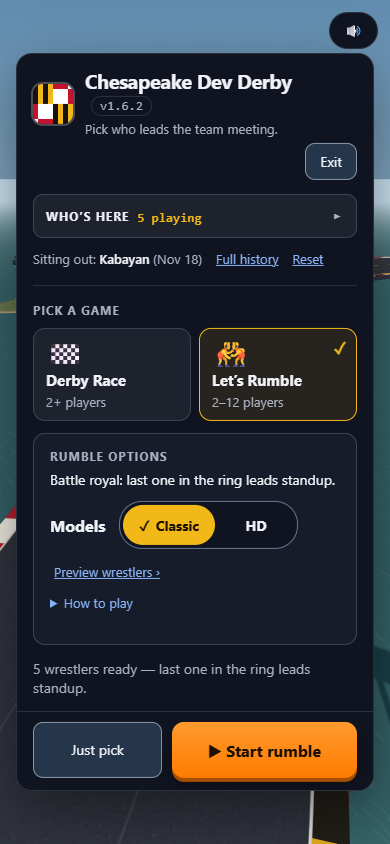
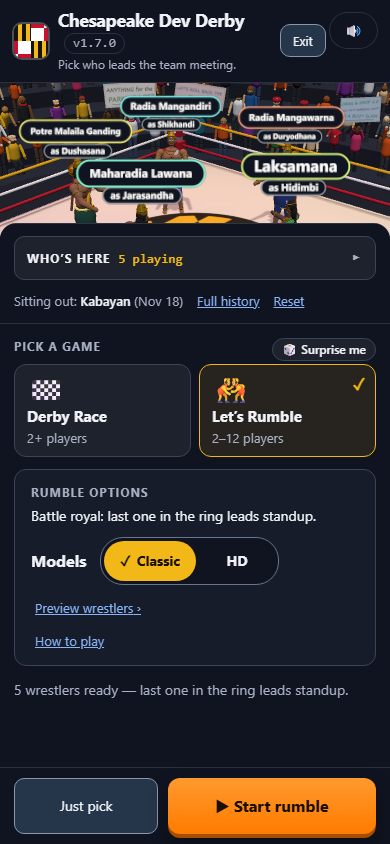
Lobby 2.0: Pocket Broadcast mobile framing, README screenshots & docs (#123 phase 4)

diff --git a/public/js/wrestle-stage.js b/public/js/wrestle-stage.js
@@ -263,10 +263,13 @@ export class WrestleStage {
       this.t += dt;
       this.orbit += dt * 0.14;
     }
-    const radius = this.camera.aspect < 1 ? 18 : 15.5;
-    const height = this.camera.aspect < 1 ? 9.5 : 7.8;
+    const portrait = this.camera.aspect < 1;
+    const radius = portrait ? 18.5 : 15.5;
+    const height = portrait ? 10.5 : 7.8;
+    // On portrait phones, aim below the ring so the wrestlers and Maryland-flag mat sit in the top 3D window.
+    const targetY = portrait ? MAT_Y - 6.8 : MAT_Y + 0.6;
     this.camera.position.set(Math.sin(this.orbit) * radius, height, Math.cos(this.orbit) * radius);
-    this.camera.lookAt(0, MAT_Y + 0.6, 0);
+    this.camera.lookAt(0, targetY, 0);
 
     for (const w of this.wrestlers) {
       if (w.pop > 0) w.pop = Math.max(0, w.pop - dt * 3.5);

diff --git a/public/js/game.js b/public/js/game.js
@@ -892,9 +892,11 @@ export class Game {
     const gridHeight = 7.8 + Math.min(3, rows * 0.6);
 
     if (reduced || this.stageTime < holdSeconds) {
+      const portrait = this.camera.aspect < 1;
       const sway = reduced ? 0 : Math.sin(this.stageTime * 0.6) * 2.2;
-      const pos = this.track.point(6 - back, -1.6 + sway, gridHeight, this._a);
-      const look = this.track.point(18, -1.2, 1.6, this._b);
+      const pos = this.track.point(6 - back, -1.6 + sway, gridHeight + (portrait ? 2.5 : 0), this._a);
+      // On portrait phones, aim lower so the starting grid and <race> banner sit in the top 3D window.
+      const look = this.track.point(18, -1.2, portrait ? -7.5 : 1.6, this._b);
       this.setCamera(pos, look, dt, 2.5, 3);
       this.focus.copy(look);
       return;

diff --git a/public/css/style.css b/public/css/style.css
@@ -1378,10 +1378,10 @@ button.exit { padding: 7px 12px; font-size: 13px; }
   .live-pill { display: none; }
   .tagline { font-size: 12px; }
 }
-@media (max-width: 640px) and (min-height: 640px) {
-  /* Tall phones: show a live 3D Chesapeake Bay window above the docked sheet. */
+@media (max-width: 640px) and (min-height: 700px) {
+  /* Tall phones: show a live 3D stage window (Bridge grid or Wrestling ring) above the docked sheet. */
   .lobby-stage {
-    margin-top: 96px;
+    margin-top: 140px;
     border-top: 1px solid #2c3547;
     border-radius: 16px 16px 0 0;
   }

diff --git a/README.md b/README.md
@@ -58,14 +58,20 @@ To use a different port: `PORT=5000 npm start` (PowerShell: `$env:PORT=5000; npm
    A plain array (`["Ada", "Grace"]`) works too. Blank entries and duplicates are ignored, and anything
    past the 30th name is dropped (the lobby tells you when this happens). Reload the page after editing.
 
-2. **Open the lobby.** It asks three things in order: **Who's here**, **Pick a game**, and that game's
-   options. Then one button starts it. On a wide screen (1000 px and up) the team list is on the left and
-   the game on the right; on a narrower one they stack. On a phone the team list folds into a
-   **Who's here · 12 playing** row: tap it to open the list (it starts open when fewer than two people are
-   ready). Everyone is listed with a checkbox. A ticked box means that person is playing.
+2. **Open the lobby.** The lobby is an open-center **Live Broadcast Stage**:
+   - On a wide screen (1000 px and up), the live 3D stage fills the center of the screen — **Derby Race**
+     stages the checked-in teammates idling on the Standup Bay Bridge before gliding down the course, and
+     **Let’s Rumble** switches to the spotlighted wrestling ring where toggling **Classic | HD** swaps
+     the 3D models live. Solid HUD panels frame the edges: a **Top Broadcast Bar** (`LIVE`, **History**,
+     **Team**, **Exit**), a scrollable and collapsible **Left Lineup Drawer** (click `◂` or press **H**
+     for a full-bleed spectator view), a rotating pre-match **broadcast chyron**, and a **Bottom Command
+     Dock** (**Pick a game** + **🎲 Surprise me**, the selected game's options, and **Launch**).
+   - On a phone, taller screens show a live 3D stage window above a docked sheet, the team list folds
+     into a full-width **Who's here · 12 playing** row (open by default when fewer than two people are
+     ready), and **Just pick** and **Start** stay pinned at the bottom in one row.
 
-   <img src="docs/lobby-wide.png" alt="The lobby on a laptop: Who's here with the team list on the left; Pick a game with the Derby Race card selected and its Race length slider on the right; Just pick someone and Start race at the bottom." width="640">
-   <img src="docs/lobby-phone.png" alt="The lobby on a phone: the team list folded into a Who's here row, the Let's Rumble card selected with its Classic or HD toggle, and Just pick and Start rumble in one row at the bottom." width="200">
+   <img src="docs/lobby-wide.png" alt="The Live Broadcast Stage lobby on a laptop: Top Broadcast Bar, collapsible Left Lineup Drawer, open center showing 5 racers idling on the Standup Bay Bridge with the ON GRID chyron, and Bottom Command Dock with mode cards, Surprise me, Race length slider, and Start race." width="640">
+   <img src="docs/lobby-phone.png" alt="The Pocket Broadcast lobby on a phone: live 3D wrestling ring window at the top, folded Who's here row, Let's Rumble selected with Classic or HD toggle, and Just pick and Start rumble in one row at the bottom." width="200">
    - The list is in **alphabetical order**. A name that is an email address is shown without the
      `@` and domain (`tony.stark@ultron.com` shows as **tony.stark**), unless another entry would show
      the same way (`tony.stark@vision.com`, or a plain `Tony.Stark`); then the full address is kept.
@@ -77,22 +83,23 @@ To use a different port: `PORT=5000 npm start` (PowerShell: `$env:PORT=5000; npm
      options (race length, Classic or HD) are kept in this browser from one meeting to the next
      (`localStorage`); a browser that has never chosen starts on the race. An explicit `?speed=` or
      `?mode=` URL setting overrides the saved race length or game. A length saved by an older version of the slider moves to the nearest of
-     the five lengths. When anyone is unchecked, the count ("2 people marked absent.") appears at the end
-     of the hint line under **Who's here**.
+     the five lengths. When anyone is unchecked, the count ("2 people marked absent.") appears in the
+     Launch zone beside Start so toggling checkboxes never shifts the team list.
    - The **last three winners are not eligible**: they are shown greyed out with an unticked, locked
      checkbox ("Sits out 3 more picks"…), and named on the **Sitting out** line under the list, next to
      **Full history** and **Reset**.
 
-3. **Pick a game.** Click a card: **🏁 Derby Race** (2 or more players) or **🤼 Let’s Rumble** (2 to 12).
-   Choosing a card only selects it; nothing starts until you click Start. The selected game's options
-   appear underneath:
+3. **Pick a game.** Click a card — **🏁 Derby Race** (2 or more players) or **🤼 Let’s Rumble** (2 to 12)
+   — or click **🎲 Surprise me** to let the lobby pick an eligible game at random. Choosing a card only
+   selects it and switches the live 3D stage; nothing starts until you click Start. The selected game's
+   options appear beside the cards:
    - the race has a **Race length** slider: about 120, 60 (default), 30, 15 or 10 seconds of racing, not
      counting the short countdown;
    - Rumble has **Models: Classic | HD** and **Preview wrestlers** (see [Let’s Rumble](#lets-rumble)).
 
-   **How to play**, at the bottom of the options, explains that game. If the number checked doesn't suit
-   the selected game, its card says so in red ("2–12 players · 14 checked"), Start is disabled, and the
-   line beside Start says what to change, with a **Review team list** link.
+   **How to play** opens a pop-up dialog explaining that game without expanding the dock. If the number
+   checked doesn't suit the selected game, its card says so in red ("2–12 players · 14 checked"), Start is
+   disabled, and the line above Start says what to change, with a **Review team list** link.
 
 4. Click **▶ Start race** (the button follows the selected game: **▶ Start rumble** for Rumble), or press
    **Enter**. When the lobby opens, keyboard focus is already on Start if the selected game can start;
@@ -438,7 +445,8 @@ arena, say) doesn't touch the lobby's markup or CSS:
 
 1. Write the game module, split like `wrestle.js` (3D) and `wrestle-sim.js` (rules, no graphics).
 2. Add one entry to `MODES` in `modes.js`. Options can be a `range` (a stepped slider), a `segmented`
-   toggle, or a `link`.
+   toggle, or a `link`. An optional `stagePreview(stage, { names, options })` hook can stage a live 3D
+   preview in the lobby (omitting it falls back to the Standup Bay Bridge fly-over).
 3. Add its `winMode` to `WIN_MODES` (`data-rules.js`), and a label to `MODE` and wording to `MODE_COUNT`
    (`page-common.js`) for the history pages. `test/modes.test.js` fails if any of these is missing.
 4. Add `<template id="guide-‹its guide›">` to `index.html` with its How to play.
@@ -460,8 +468,9 @@ The online demo uses the same pages.
     pressed when selected; **Space** or **Enter** selects it without starting anything;
   - in the lobby, **Enter** on Start, on a slider, or anywhere that isn't a control starts the selected
     game;
+  - **H** collapses or expands the desktop Lineup Drawer (spectator view);
   - **M** turns sound on or off;
-  - **Escape** closes the reset dialog.
+  - **Escape** closes the **How to play** and **Reset** dialogs.
 - **Focus:**
   - each page starts on the most useful control: Start in the lobby (or the selected game's card when
     the team doesn't fit it), **Back to lobby** on the other pages; after a game, focus returns to Start;

diff --git a/CHANGELOG.md b/CHANGELOG.md
@@ -8,6 +8,11 @@ to release.
 ## [Unreleased]
 
 ### Added
+- **Pocket Broadcast mobile polish & docs (#123, phase 4):**
+  - Portrait phone camera framing for both Derby Race and Let's Rumble so the idling racers or
+    spotlighted wrestling ring sit directly in the top 140 px live 3D window on taller phones.
+  - Refreshed `README.md` lobby instructions, keyboard shortcuts (`H`, `Escape`), `stagePreview`
+    extension notes, and laptop/phone screenshots (`docs/lobby-wide.png`, `docs/lobby-phone.png`).
 - **Broadcast polish & Curtain-Part launch (#123, phase 3):**
   - **Curtain-Part transition & camera handoff:** pressing **Start** glides the HUD panels outward
     over 220 ms (instant under `prefers-reduced-motion`) while the 3D camera continues seamlessly
